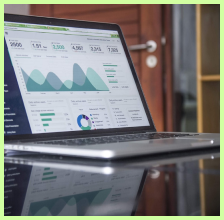
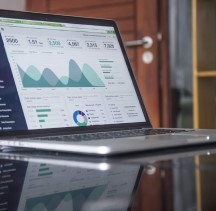
arregalr amiagnes de portafolio

diff --git a/style.css b/style.css
@@ -206,10 +206,13 @@ margin-right: 15px;
   .portafolio div{
     margin-bottom: 10px;
     position: relative;
+    border: #D1FFA2 solid 4px;
   }
 
   .portafolio div img{
     z-index: 1;
+    width: 100%;
+    height: 100%;
   }
 
   .portafolio div .detalle-proyecto{
@@ -225,6 +228,7 @@ margin-right: 15px;
     border-radius: 5%;
     z-index: 2;
     height: 70%;
+    border:none;
   }
 
   .portafolio div .detalle-proyecto h3{
@@ -244,6 +248,7 @@ margin-right: 15px;
     flex-wrap: wrap;
     margin-bottom: 0;
     align-self: flex-end;
+    border:none
   }
 
   .portafolio div .detalle-proyecto span{
@@ -256,6 +261,9 @@ margin-right: 15px;
     background-color: #d1ffa2;
   }
 
+  .portafolio div:hover{
+    border-color:#00CF95;
+  }
   .portafolio div:hover > img{
     filter: brightness(50%);
     cursor: url("./images/cursor2.png"),auto;
